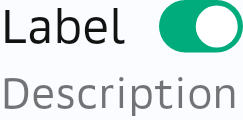
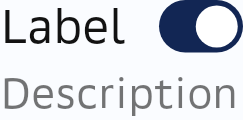
feat(sdds-alib/plasma-giga-compose): Switch style was actualized

Changed region(s): [[0.6337, 0.0, 1.0, 0.45]]

diff --git a/tokens/plasma.giga.compose/src/main/kotlin/com/sdds/plasma/giga/styles/switcher/SwitchStyles.kt b/tokens/plasma.giga.compose/src/main/kotlin/com/sdds/plasma/giga/styles/switcher/SwitchStyles.kt
@@ -14,6 +14,7 @@ import androidx.compose.ui.unit.dp
 import com.sdds.compose.uikit.SwitchStates
 import com.sdds.compose.uikit.SwitchStyle
 import com.sdds.compose.uikit.SwitchStyleBuilder
+import com.sdds.compose.uikit.interactions.InteractiveState
 import com.sdds.compose.uikit.interactions.asStatefulValue
 import com.sdds.compose.uikit.style.BuilderWrapper
 import com.sdds.compose.uikit.style.wrap
@@ -82,18 +83,36 @@ private val SwitchStyleBuilder.invariantProps: SwitchStyleBuilder
         .toggleThumbShape(CircleShape)
         .disableAlpha(0.4f)
         .colorValues {
-            labelColor(SolidColor(PlasmaGigaTheme.colors.textDefaultPrimary).asStatefulValue())
-            descriptionColor(SolidColor(PlasmaGigaTheme.colors.textDefaultSecondary).asStatefulValue())
+            labelColor(
+                SolidColor(PlasmaGigaTheme.colors.textDefaultPrimary).asStatefulValue(
+                    setOf(InteractiveState.Hovered)
+                        to SolidColor(PlasmaGigaTheme.colors.textDefaultPrimaryHover),
+                ),
+            )
+            descriptionColor(
+                SolidColor(PlasmaGigaTheme.colors.textDefaultSecondary).asStatefulValue(
+                    setOf(InteractiveState.Hovered)
+                        to SolidColor(PlasmaGigaTheme.colors.textDefaultSecondaryHover),
+                ),
+            )
             toggleThumbColor(
                 SolidColor(PlasmaGigaTheme.colors.surfaceOnDarkSolidDefault).asStatefulValue(
                     setOf(SwitchStates.Checked)
                         to SolidColor(PlasmaGigaTheme.colors.surfaceInverseSolidDefault),
+                    setOf(InteractiveState.Hovered) to
+                        SolidColor(PlasmaGigaTheme.colors.surfaceOnDarkSolidDefaultHover),
+                    setOf(SwitchStates.Checked, InteractiveState.Hovered) to
+                        SolidColor(PlasmaGigaTheme.colors.surfaceInverseSolidDefaultHover),
                 ),
             )
             toggleTrackColor(
                 SolidColor(PlasmaGigaTheme.colors.surfaceDefaultTransparentTertiary).asStatefulValue(
                     setOf(SwitchStates.Checked)
-                        to SolidColor(PlasmaGigaTheme.colors.surfaceDefaultAccent),
+                        to SolidColor(PlasmaGigaTheme.colors.surfaceDefaultSolidDefault),
+                    setOf(InteractiveState.Hovered) to
+                        SolidColor(PlasmaGigaTheme.colors.surfaceDefaultTransparentTertiaryHover),
+                    setOf(InteractiveState.Hovered, SwitchStates.Checked) to
+                        SolidColor(PlasmaGigaTheme.colors.surfaceDefaultSolidDefault),
                 ),
             )
             toggleTrackBorderColor(SolidColor(PlasmaGigaTheme.colors.surfaceDefaultClear).asStatefulValue())
